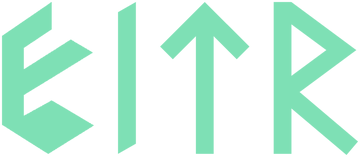
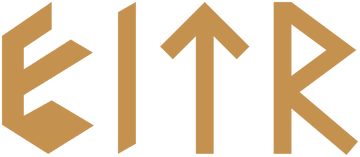
Plymouth: share Bifröst colors with update progress

diff --git a/distro/plymouth/eitr/export.py b/distro/plymouth/eitr/export.py
@@ -1,11 +1,15 @@
 #!/usr/bin/env python3
 """Export the Eitr boot splash images (wordmark, Futhark ring, passphrase field)
-and the background colour in eitr.script, from the approved wordmark and the
-Norse palette. Requires Pillow and the
+and the background colour in eitr.script, from the approved wordmark, measured
+runestone gold and the shared Bifröst progress palette. Requires Pillow and the
 JetBrainsMono Nerd Font package:
 
   uv run --with pillow distro/plymouth/eitr/export.py
 """
+import argparse
+import math
+import sys
+import tempfile
 from pathlib import Path
 import re
 import tomllib
@@ -13,6 +17,12 @@ from PIL import Image, ImageDraw, ImageFilter, ImageFont
 
 HERE = Path(__file__).resolve().parent
 ROOT = HERE.parents[2]
+sys.path.insert(0, str(ROOT / "distro/lib"))
+from eitr_bifrost import (ADVANCE_NUMERATOR, ADVANCE_DENOMINATOR, FRAME_SECONDS,
+                         PHASE_COUNT, frame_phase, phase_color)
+
+# Dominant gold in the central runestone emblem: RGB (196, 145, 79).
+RUNE_GOLD = "#c4914f"
 WORDMARK = ROOT / "branding/png/eitr-wordmark-white-1024.png"
 FONT = Path("/usr/share/fonts/TTF/JetBrainsMonoNerdFont-Regular.ttf")
 SCALE = 4  # draw large, then downsample for smooth rounded edges
@@ -27,14 +37,16 @@ def rounded(size, color):
     image = Image.new("RGBA", (width * SCALE, height * SCALE))
     ImageDraw.Draw(image).rounded_rectangle((0, 0, width * SCALE - 1, height * SCALE - 1),
                                             radius=height * SCALE // 2, fill=color)
-    return image.resize(size, Image.Resampling.LANCZOS)
+    result = Image.new("RGBA", size, color)
+    result.putalpha(image.getchannel("A").resize(size, Image.Resampling.LANCZOS))
+    return result
 
 
 FUTHARK = "ᚠᚢᚦᚨᚱᚲᚷᚹᚺᚾᛁᛃᛇᛈᛉᛊᛏᛒᛖᛗᛚᛜᛞᛟ"
 RUNIC_FONT = Path("/usr/share/fonts/noto/NotoSansRunic-Regular.ttf")
 
 
-def runes(accent):
+def runes(accent, output):
     """rune-00.png to rune-23.png: the Elder Futhark ring around the wordmark, in the accent with a soft glow."""
     font = ImageFont.truetype(str(RUNIC_FONT), 32 * SCALE)
     size = 52 * SCALE
@@ -45,34 +57,102 @@ def runes(accent):
         ImageDraw.Draw(glyph).text(position, rune, font=font, fill=rgb(accent))
         glow = glyph.filter(ImageFilter.GaussianBlur(5 * SCALE))
         image = Image.alpha_composite(glow, glyph)
-        image.resize((size // SCALE, size // SCALE), Image.Resampling.LANCZOS).save(HERE / f"rune-{index:02d}.png")
+        result = Image.new("RGBA", (size // SCALE, size // SCALE), rgb(accent))
+        result.putalpha(image.getchannel("A").resize(result.size, Image.Resampling.LANCZOS))
+        result.save(output / f"rune-{index:02d}.png")
 
 
-def main():
+def export(output):
+    output.mkdir(parents=True, exist_ok=True)
     palette = tomllib.loads((ROOT / "themes/norse/colors.toml").read_text())
-    accent = palette["accent"]
-    script = HERE / "eitr.script"
+    accent = RUNE_GOLD
+    foreground = palette["foreground"]
+    script = output / "eitr.script"
     shade = ", ".join(f"{channel / 255:.3f}" for channel in rgb(palette["background"])[:3])
     script.write_text(re.sub(r"(Window\.SetBackground(?:Top|Bottom)Color)\([^)]*\)", rf"\1({shade})",
-                             script.read_text()))
+                             (HERE / "eitr.script").read_text()))
     source = Image.open(WORDMARK).convert("RGBA")
     width = 360
     alpha = source.getchannel("A").resize((width, round(width * source.height / source.width)),
                                           Image.Resampling.LANCZOS)
     wordmark = Image.new("RGBA", alpha.size, rgb(accent))
     wordmark.putalpha(alpha)
-    wordmark.save(HERE / "wordmark.png")
-    runes(accent)
-    # The passphrase prompt uses the accent too: one colour from power-on to the desktop.
-    rounded((10, 10), rgb(accent)).save(HERE / "bullet.png")
-    rounded((320, 40), rgb(accent, 28)).save(HERE / "field.png")
+    wordmark.save(output / "wordmark.png")
+    for phase in range(PHASE_COUNT):
+        frame = Image.new("RGBA", alpha.size, phase_color(phase) + (255,))
+        frame.putalpha(alpha)
+        frame.save(output / f"wordmark-{phase:02d}.png")
+    text = script.read_text()
+    constants = (f"wordmark.phase_count = {PHASE_COUNT};\n"
+                 f"wordmark.ticks_per_frame = {FRAME_SECONDS * 50:g};\n"
+                 f"wordmark.advance_numerator = {ADVANCE_NUMERATOR};\n"
+                 f"wordmark.advance_denominator = {ADVANCE_DENOMINATOR};")
+    text = re.sub(r"wordmark.phase_count = .*?wordmark.advance_denominator = [^;]+;", constants, text, flags=re.S)
+    script.write_text(text)
+    runes(accent, output)
+    # A neutral prompt and gold field stay readable while the wordmark changes colour.
+    rounded((10, 10), rgb(accent)).save(output / "bullet.png")
+    rounded((320, 40), rgb(accent, 28)).save(output / "field.png")
     font = ImageFont.truetype(str(FONT), 15 * SCALE)
     text = "Enter the disk passphrase"
     left, top, right, bottom = font.getbbox(text)
     label = Image.new("RGBA", (right - left + 8 * SCALE, bottom - top + 8 * SCALE))
-    ImageDraw.Draw(label).text((4 * SCALE - left, 4 * SCALE - top), text, font=font, fill=rgb(accent, 235))
-    label.resize((label.width // SCALE, label.height // SCALE), Image.Resampling.LANCZOS).save(HERE / "passphrase.png")
+    ImageDraw.Draw(label).text((4 * SCALE - left, 4 * SCALE - top), text, font=font, fill=rgb(foreground, 255))
+    prompt = Image.new("RGBA", (label.width // SCALE, label.height // SCALE), rgb(foreground))
+    prompt.putalpha(label.getchannel("A").resize(prompt.size, Image.Resampling.LANCZOS))
+    prompt.save(output / "passphrase.png")
+
+
+def previews(output, destination):
+    destination.mkdir(parents=True, exist_ok=True)
+    for name, frame, password in (("boot-frame-24", 24, False), ("boot-frame-48", 48, False),
+                                  ("shutdown", 72, False), ("disk-passphrase", 0, True)):
+        canvas = Image.new("RGBA", (1280, 720), rgb("#0a0b12"))
+        logo = Image.open(output / f"wordmark-{frame_phase(frame):02d}.png").convert("RGBA")
+        center_x, center_y = 640, 320
+        canvas.alpha_composite(logo, (center_x - logo.width // 2, center_y - logo.height // 2))
+        for index in range(24):
+            rune = Image.open(output / f"rune-{index:02d}.png").convert("RGBA")
+            angle = index / 24 * 2 * math.pi - math.pi / 2
+            distance = abs(index - (frame / 40 % 1) * 24)
+            distance = min(distance, 24 - distance)
+            light = max(.75 if index + 1 <= .45 * 24 else .18, 1 - distance * .27 if distance < 3 else .18)
+            rune.putalpha(rune.getchannel("A").point(lambda alpha: round(alpha * light)))
+            canvas.alpha_composite(rune, (round(center_x + math.cos(angle) * 270 - 26),
+                                           round(center_y + math.sin(angle) * (logo.height / 2 + 90) - 26)))
+        if password:
+            below = center_y + logo.height / 2 + 90 + 40
+            label = Image.open(output / "passphrase.png").convert("RGBA")
+            field = Image.open(output / "field.png").convert("RGBA")
+            canvas.alpha_composite(label, (center_x - label.width // 2, round(below - 8)))
+            field_y = round(below + label.height + 4)
+            canvas.alpha_composite(field, (center_x - field.width // 2, field_y))
+            bullet = Image.open(output / "bullet.png").convert("RGBA")
+            for index in range(10):
+                canvas.alpha_composite(bullet, (center_x - 77 + index * 16, field_y + 15))
+        canvas.convert("RGB").save(destination / f"plymouth-{name}.png")
+
+
+def main():
+    parser = argparse.ArgumentParser(description=__doc__)
+    parser.add_argument("--check", action="store_true")
+    parser.add_argument("--preview-dir", type=Path)
+    arguments = parser.parse_args()
+    if arguments.check:
+        with tempfile.TemporaryDirectory() as directory:
+            output = Path(directory)
+            export(output)
+            stale = [path.name for path in output.iterdir()
+                     if not (HERE / path.name).is_file() or path.read_bytes() != (HERE / path.name).read_bytes()]
+            if stale:
+                print("Stale Plymouth exports: " + ", ".join(sorted(stale)), file=sys.stderr)
+                return 1
+    else:
+        export(HERE)
+        if arguments.preview_dir:
+            previews(HERE, arguments.preview_dir)
+    return 0
 
 
 if __name__ == "__main__":
-    main()
+    raise SystemExit(main())

diff --git a/distro/tests/test_plymouth_theme.py b/distro/tests/test_plymouth_theme.py
@@ -1,4 +1,9 @@
+import subprocess
+import sys
+import tomllib
 from pathlib import Path
+from PIL import Image
+from eitr_bifrost import PHASE_COUNT, FRAME_SECONDS, ADVANCE_NUMERATOR, ADVANCE_DENOMINATOR, phase_color, frame_phase
 import unittest
 
 ROOT = Path(__file__).resolve().parents[2]
@@ -12,13 +17,42 @@ class PlymouthThemeTests(unittest.TestCase):
         self.assertIn("if (index + 1 <= ring.progress * ring.count) light = 0.75;", script)
         self.assertNotIn("if (index < ring.progress * ring.count)", script)
 
-    def test_the_passphrase_prompt_shares_the_accent(self):
-        # One colour from power-on to the desktop: the prompt matches the runes and wordmark.
-        export = (SCRIPT.parent / "export.py").read_text()
-        for asset in ('rgb(accent)).save(HERE / "bullet.png")', 'rgb(accent, 28)).save(HERE / "field.png")',
-                      "fill=rgb(accent, 235)"):
-            self.assertIn(asset, export)
-        self.assertNotIn("foreground", export)
+    def test_gold_runes_and_neutral_prompt_remain_readable(self):
+        palette = tomllib.loads((ROOT / "themes/norse/colors.toml").read_text())
+        foreground = tuple(bytes.fromhex(palette["foreground"][1:]))
+        for name, expected in (("rune-00.png", (196, 145, 79)), ("bullet.png", (196, 145, 79)),
+                               ("passphrase.png", foreground)):
+            with Image.open(SCRIPT.parent / name) as image:
+                pixels = list(image.convert("RGBA").get_flattened_data())
+                opaque = max(pixels, key=lambda pixel: pixel[3])
+                self.assertEqual(opaque[:3], expected)
+                self.assertGreater(opaque[3], 200)
+        script = SCRIPT.read_text()
+        self.assertIn("global.ring.visible = 1;", script)
+        with Image.open(SCRIPT.parent / "wordmark.png") as logo, Image.open(SCRIPT.parent / "passphrase.png") as prompt:
+            for height in (480, 720, 1080):
+                ring_bottom = height / 2 - 40 + logo.height / 2 + 90
+                prompt_y = ring_bottom + 40 - 8
+                field_bottom = ring_bottom + 40 + prompt.height + 4 + 40
+                self.assertGreaterEqual(prompt_y, ring_bottom + 26)
+                self.assertLessEqual(field_bottom, height)
+
+    def test_all_wordmark_phases_match_the_shared_terminal_palette(self):
+        script = SCRIPT.read_text()
+        self.assertIn(f"wordmark.phase_count = {PHASE_COUNT};", script)
+        self.assertIn(f"wordmark.ticks_per_frame = {FRAME_SECONDS * 50:g};", script)
+        self.assertIn(f"wordmark.advance_numerator = {ADVANCE_NUMERATOR};", script)
+        self.assertIn(f"wordmark.advance_denominator = {ADVANCE_DENOMINATOR};", script)
+        for phase in range(PHASE_COUNT):
+            with Image.open(SCRIPT.parent / f"wordmark-{phase:02d}.png") as image:
+                pixel = max(image.convert("RGBA").get_flattened_data(), key=lambda pixel: pixel[3])
+                self.assertEqual(pixel, phase_color(phase) + (255,))
+        self.assertEqual(frame_phase(0), frame_phase(96))
+        self.assertEqual(phase_color(0), (224, 92, 104))
+
+    def test_exports_are_reproducible_without_running_plymouth(self):
+        result = subprocess.run([sys.executable, str(SCRIPT.parent / "export.py"), "--check"], capture_output=True, text=True)
+        self.assertEqual(result.returncode, 0, result.stderr)
 
     def test_every_rune_image_exists(self):
         theme = SCRIPT.parent

diff --git a/distro/lib/eitr_bifrost.py b/distro/lib/eitr_bifrost.py
@@ -1,0 +1,29 @@
+"""Shared Bifröst palette and motion for terminal progress and generated splash assets."""
+PALETTE = ((224, 92, 104), (232, 147, 90), (230, 195, 106),
+           (127, 201, 143), (111, 168, 220), (169, 139, 214))
+FRAME_SECONDS = 0.1
+ADVANCE_NUMERATOR = 2
+ADVANCE_DENOMINATOR = 3
+LETTER_PHASE = 24
+STOP_RESOLUTION = 256
+PHASE_COUNT = len(PALETTE) * STOP_RESOLUTION // LETTER_PHASE
+
+
+def phase_color(phase):
+    position = (-phase * LETTER_PHASE) % (len(PALETTE) * STOP_RESOLUTION)
+    stop, mix = divmod(position, STOP_RESOLUTION)
+    first, second = PALETTE[stop], PALETTE[(stop + 1) % len(PALETTE)]
+    return tuple(start + int((end - start) * mix / STOP_RESOLUTION)
+                 for start, end in zip(first, second))
+
+
+def frame_phase(frame):
+    return (frame * ADVANCE_NUMERATOR // ADVANCE_DENOMINATOR) % PHASE_COUNT
+
+
+if __name__ == '__main__':
+    # Fixed numeric rows consumed by spinner.sh, never localized or evaluated.
+    for channel in range(3):
+        print(' '.join(str(color[channel]) for color in PALETTE))
+    print(FRAME_SECONDS, ADVANCE_NUMERATOR, ADVANCE_DENOMINATOR, LETTER_PHASE,
+          STOP_RESOLUTION, len(PALETTE))

diff --git a/README.md b/README.md
@@ -134,5 +134,5 @@ On a non-Arch host, run it from a regular clone in a throwaway Arch container.
 The checkout is mounted read-only and copied, so its file ownership is untouched:
 
 ```sh
-docker run --rm --platform linux/amd64 -v "$PWD":/repo:ro archlinux:latest bash -c 'sed -i "/^\[options\]/a DisableSandbox" /etc/pacman.conf && pacman -Syu --noconfirm --needed bash git python python-pillow python-gobject nodejs shellcheck lua qt6-declarative jq util-linux xkeyboard-config >/dev/null && useradd -m tester && cp -a /repo /home/tester/eitr && chown -R tester: /home/tester/eitr && su tester -c "cd ~/eitr && bash tools/check.sh"'
+docker run --rm --platform linux/amd64 -v "$PWD":/repo:ro archlinux:latest bash -c 'sed -i "/^\[options\]/a DisableSandbox" /etc/pacman.conf && pacman -Syu --noconfirm --needed bash git python python-pillow python-gobject nodejs shellcheck lua qt6-declarative jq util-linux xkeyboard-config noto-fonts ttf-jetbrains-mono-nerd >/dev/null && useradd -m tester && cp -a /repo /home/tester/eitr && chown -R tester: /home/tester/eitr && su tester -c "cd ~/eitr && bash tools/check.sh"'
 ```

diff --git a/TODO.md b/TODO.md
@@ -45,11 +45,9 @@ LAN.
   (they still show the old colours).
 - **Auto-hide bar.** Implemented for every edge and layout;
   live Hyprland pointer-edge and exclusive-zone checks are pending before release.
-- **Boot, shutdown and disk-password screens (`distro/plymouth`).** Replace the dark
-  green: the logo cycles through the same Bifröst colour transitions as System
-  Update's text, and the rune loading animation uses the gold of the Norse
-  runestone wallpaper's emblem. Applies at power on, power off and the disk
-  passphrase prompt.
+- **Boot, shutdown and disk-password screens.** Shared Bifröst logo colours and
+  runestone-gold runes are implemented with offscreen
+  previews; boot, shutdown and encrypted unlock still need VM review before release.
 - **Website translations.** Offer the site in the desktop's languages
   (Portuguese (Brazil), Spanish, German, French) with a language switch, reusing
   the reviewed Handbook translations where chapters overlap. Decide the URL scheme

diff --git a/distro/README.md b/distro/README.md
@@ -6,6 +6,15 @@ install sets up the complete desktop, AUR packages included, without a network
 (`download.eitr.info` serves the current one). `install.sh` installs onto an
 existing Arch system instead. The live ISO is not a preinstalled graphical session.
 
+The Plymouth splash cycles the Eitr wordmark through the same Bifröst palette
+and timing as terminal progress. Runes use the runestone emblem’s measured gold,
+including at the disk-password prompt; the prompt text stays neutral. Regenerate
+assets with `python3 distro/plymouth/eitr/export.py` and verify with `--check`.
+`--preview-dir PATH` writes illustrative boot, shutdown and password frames
+without running Plymouth. The existing package hook refreshes the initramfs only
+when the Eitr splash and Plymouth hook are selected; this does not change boot
+entries. Validate the actual boot, shutdown and unlock in a VM before release.
+
 ## What is included
 
 - Development > Git Accounts configures a default Git identity and folder

diff --git a/distro/RELEASES.md b/distro/RELEASES.md
@@ -1,5 +1,9 @@
 # Releases
 
+The Plymouth wordmark cycles through the terminal progress palette; rune loading
+and password bullets use runestone gold, with neutral password prompt text.
+Generated assets retain the existing package refresh hook. VM review is pending.
+
 Optional bar auto-hide reveals at the screen edge, holds open for panels and
 dragging, and frees the reserved window space while hidden. It is off by default.
 
